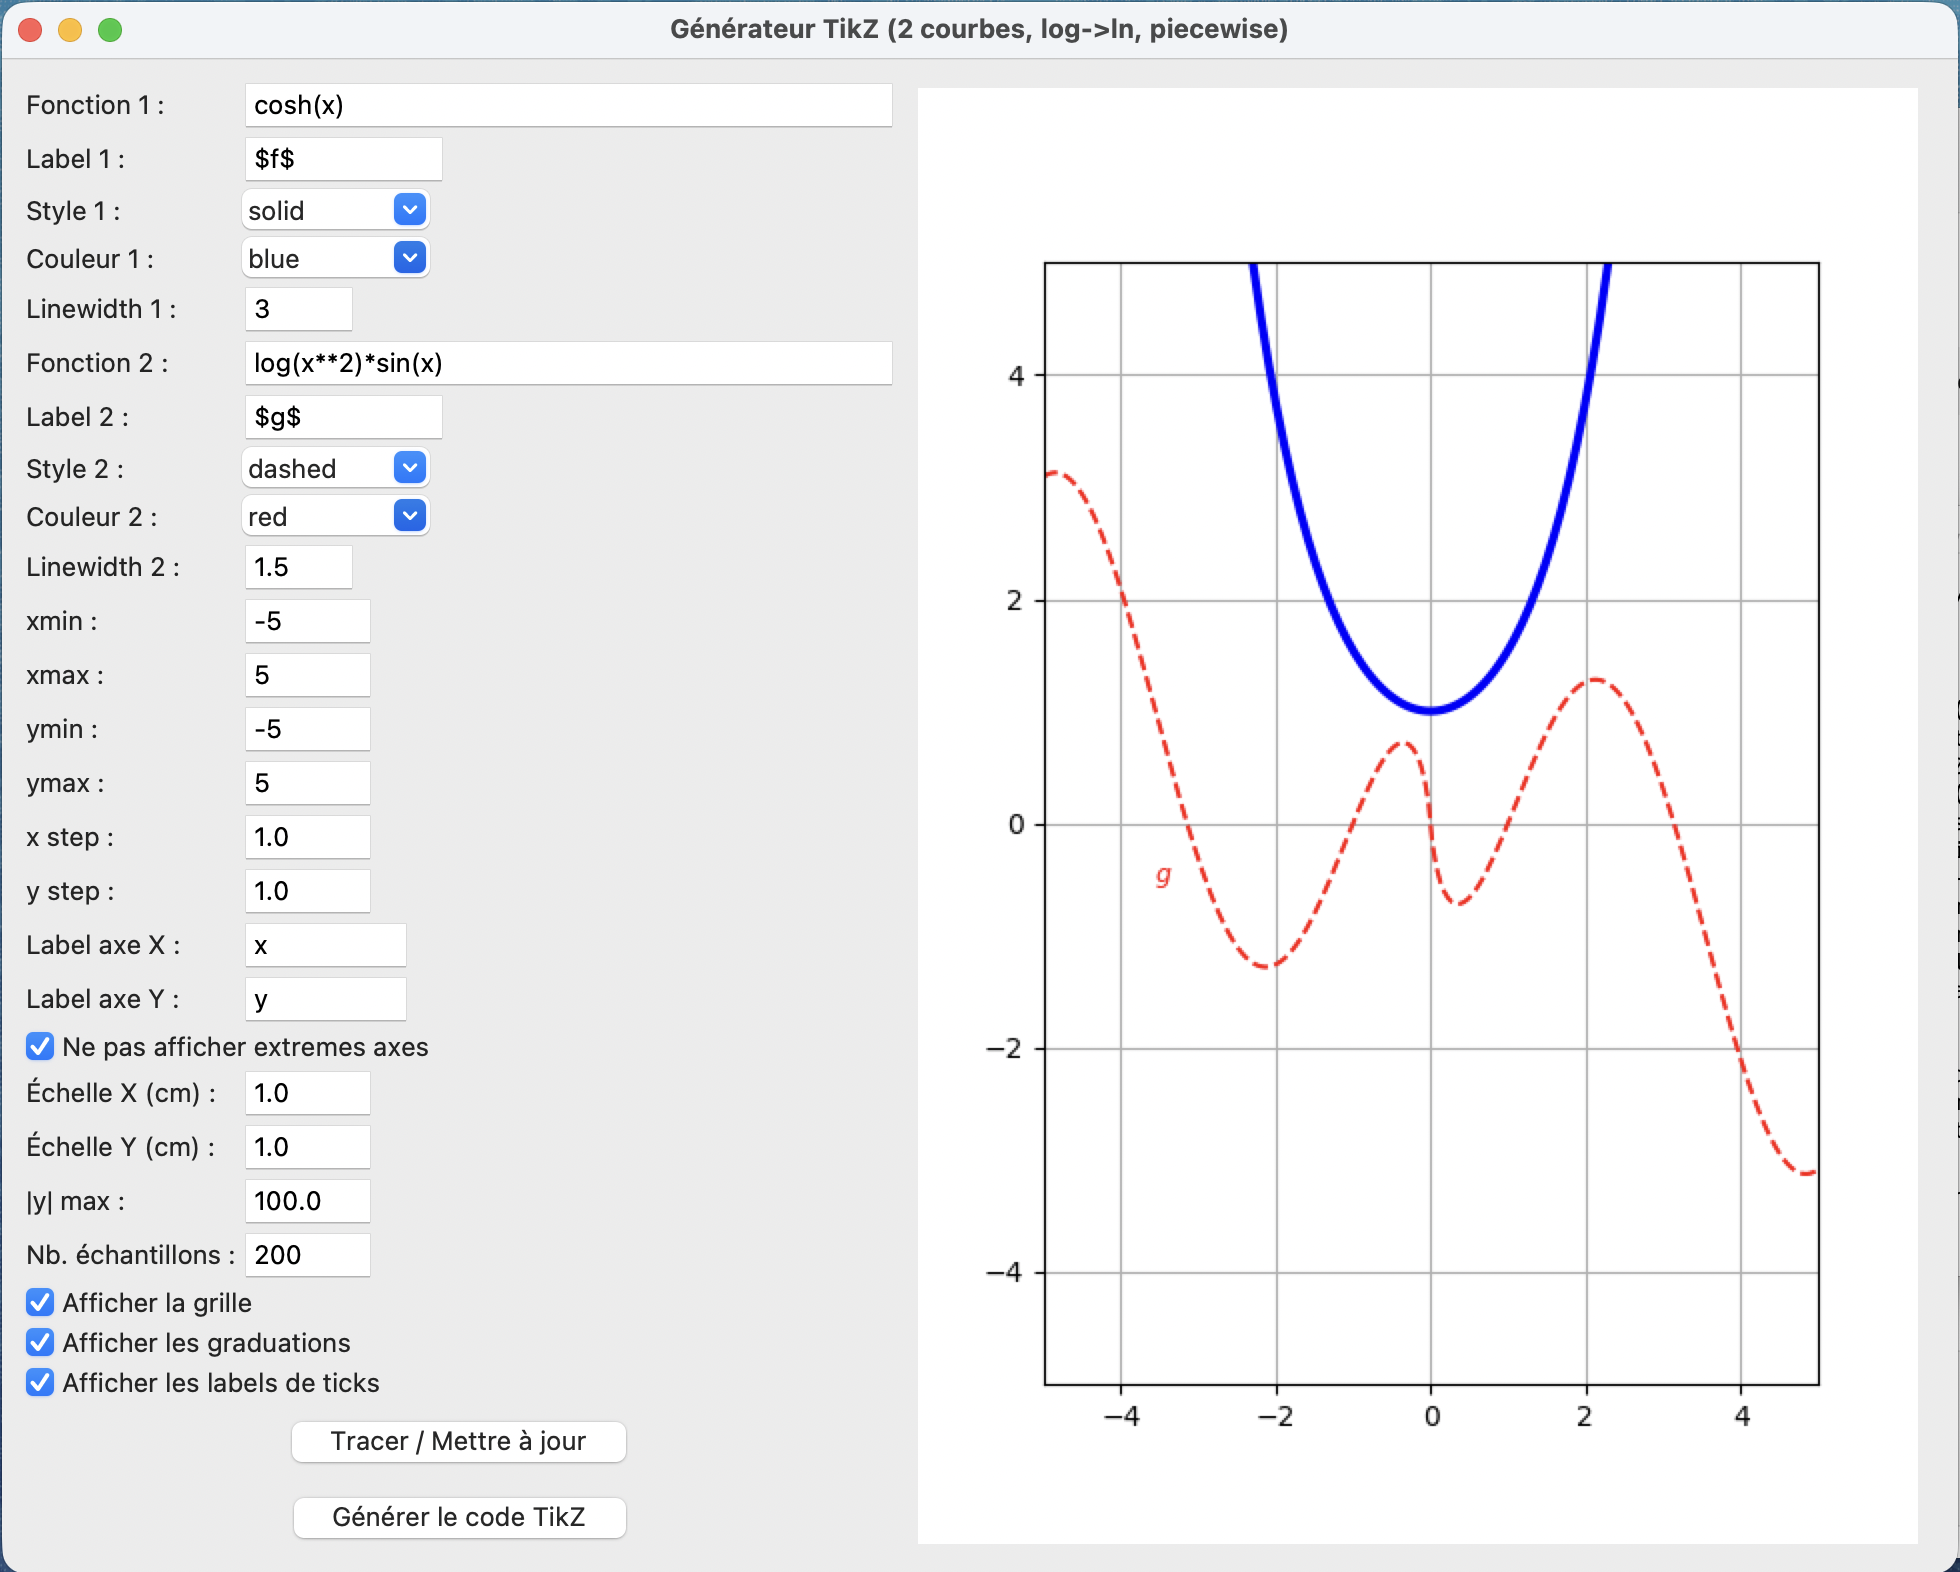
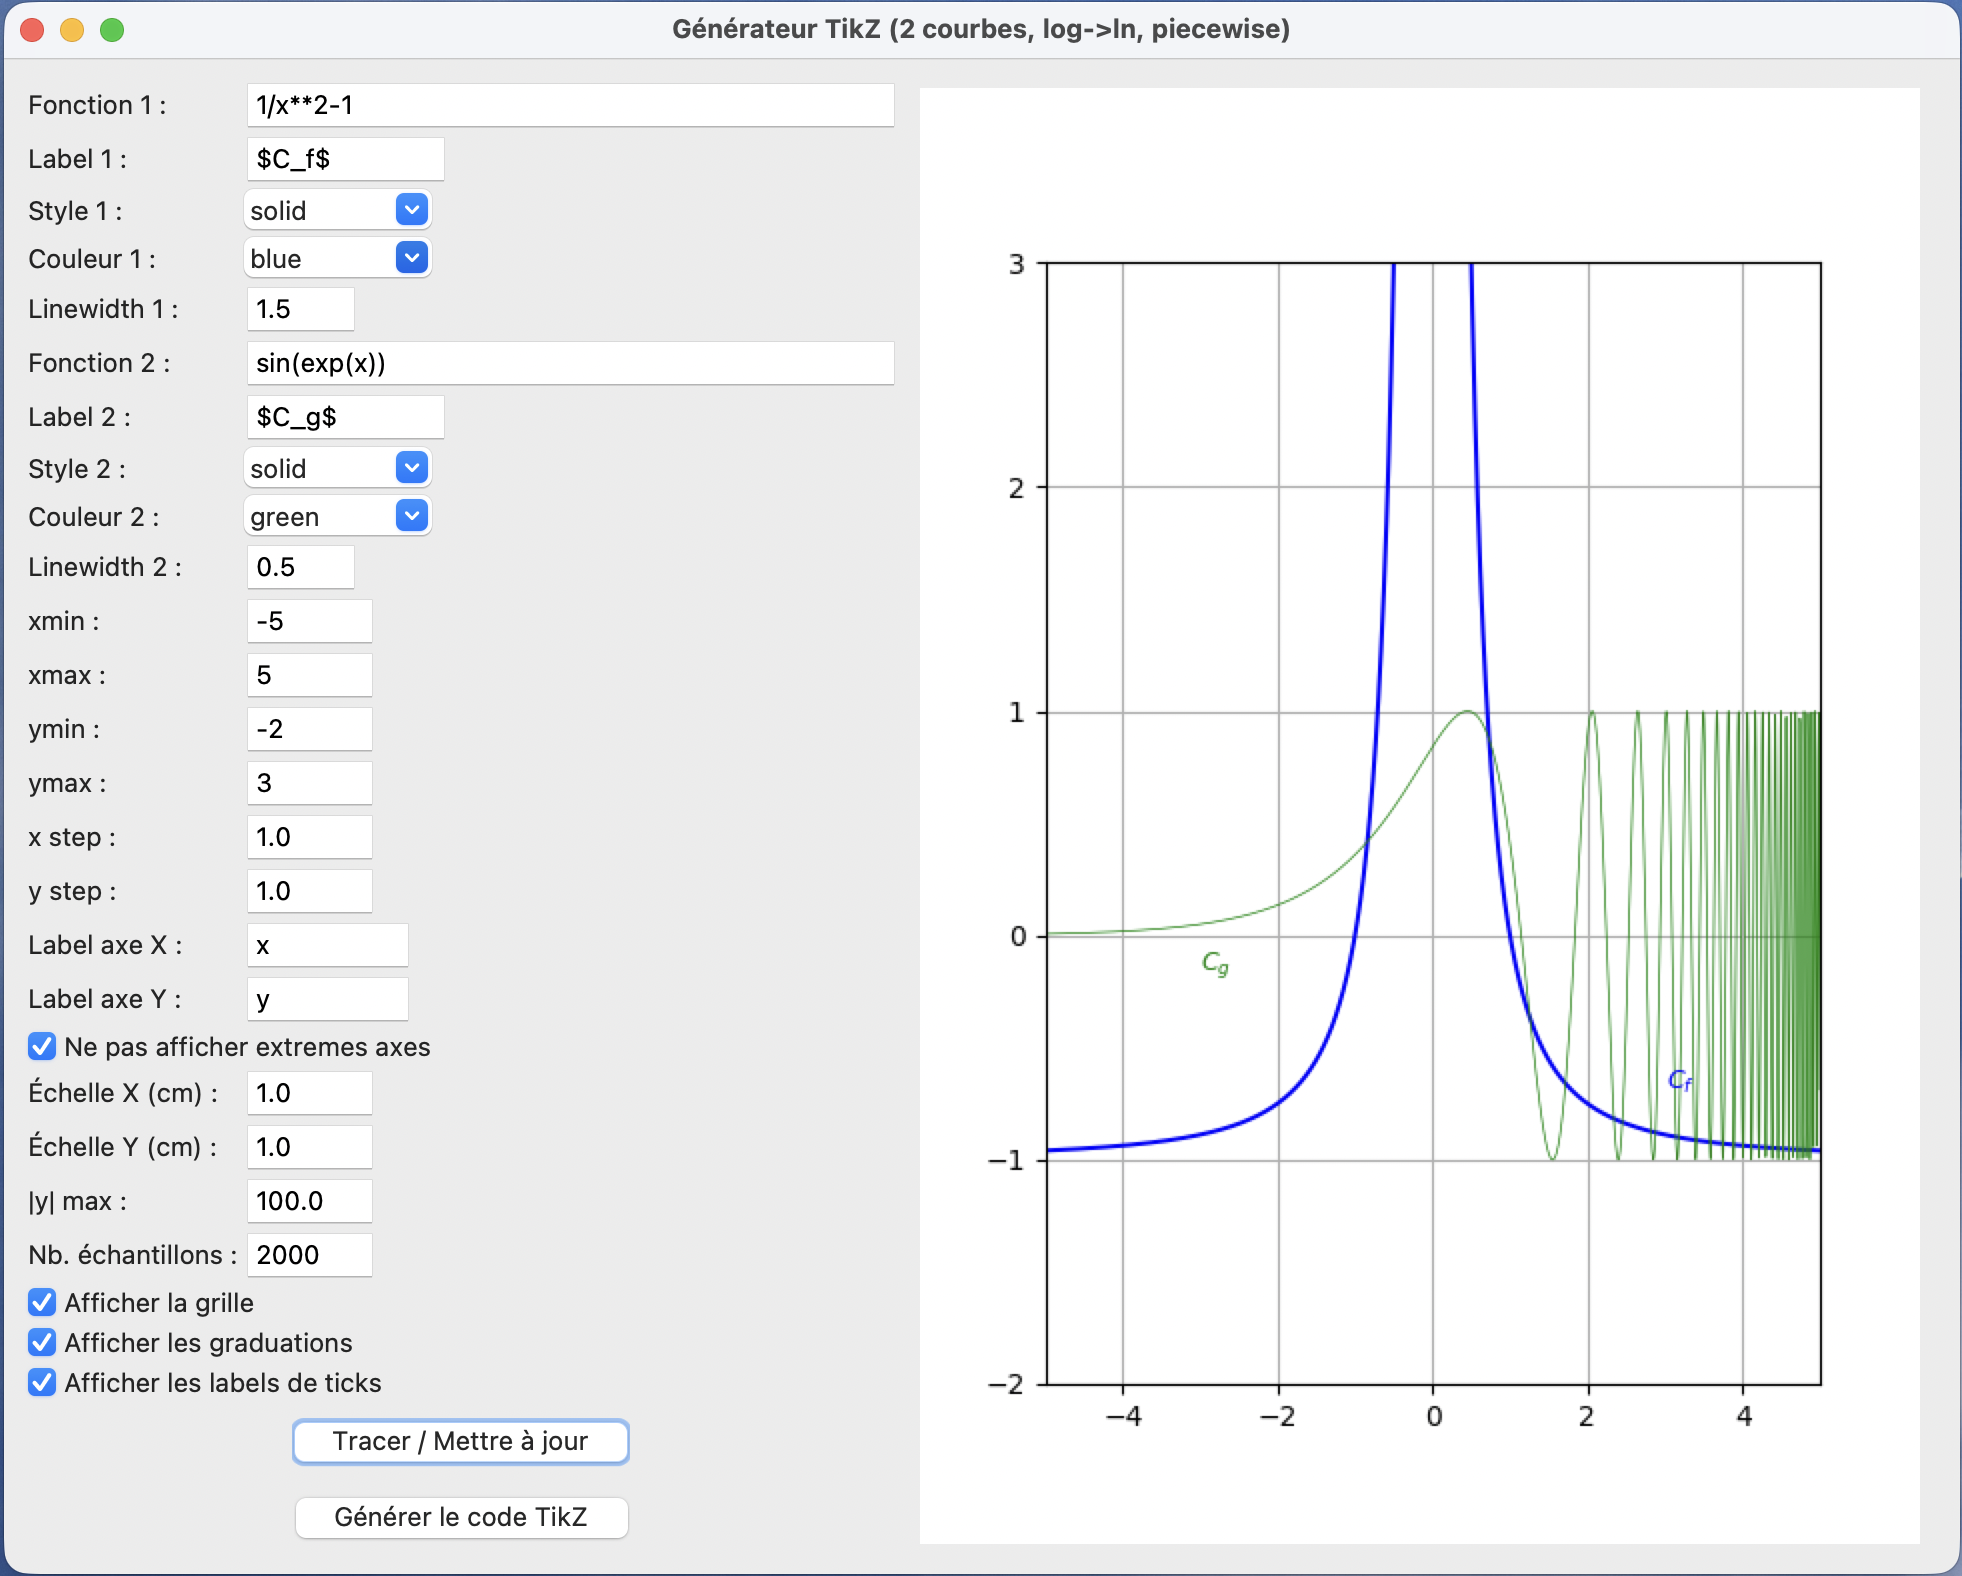
Modification de l'exemple

diff --git a/test.tex b/test.tex
@@ -1,44 +1,33 @@
-% XeLaTeX can use any Mac OS X font. See the setromanfont command below.
-% Input to XeLaTeX is full Unicode, so Unicode characters can be typed directly into the source.
-
-% The next lines tell TeXShop to typeset with xelatex, and to open and save the source with Unicode encoding.
-
-%!TEX TS-program = xelatex
-%!TEX encoding = UTF-8 Unicode
-
 \documentclass{article}
 \usepackage[utf8]{inputenc}    % si besoin
-
 \usepackage{amsmath,amssymb}   % si vous utilisez des formules avancées
-
 \usepackage{tikz}       % TikZ "de base"
 \usepackage{pgfplots}   % Pour les tracés pgfplots
 \pgfplotsset{compat=1.18} % ou version plus récente, p. ex. 1.18
-
 \begin{document}
 
-
-
+%%%%%%%%%%%%%%%%%%%%%%%%%%%%%%%%%%%%%%%
 \begin{tikzpicture}
   \begin{axis}[%
     xmin=-5.0,
     xmax=5.0,
-    ymin=-5.0,
-    ymax=5.0,
+    ymin=-2.0,
+    ymax=3.0,
     axis lines=middle,
     trig format=rad,
     grid=major,
     xtick={ -4.0,-3.0,-2.0,-1.0,0.0,1.0,2.0,3.0,4.0 },
-    ytick={ -4.0,-3.0,-2.0,-1.0,0.0,1.0,2.0,3.0,4.0 },
+    ytick={ -1.0,0.0,1.0,2.0 },
     xlabel=$x$,
     ylabel=$y$,
     scale only axis,
     x=1.0cm,
     y=1.0cm
   ]
-    \addplot[samples=200, unbounded coords=jump, line width=3.0pt, color=blue, solid, restrict y to domain=-100.0:100.0, domain=-5.0:5.0]{cosh(x)};
-    \addplot[samples=200, unbounded coords=jump, line width=1.5pt, color=red, dash pattern=on 5pt off 5pt, restrict y to domain=-100.0:100.0, domain=-5.0:5.0]{ln(x^2)*sin(x)};
-    \draw[color=red] (axis cs:-3.5677419354838715,-0.5237619523333805) node[anchor=east]{\color{red}$g$};
+    \addplot[samples=2000, unbounded coords=jump, line width=1.5pt, color=blue, solid, restrict y to domain=-100.0:100.0, domain=-5.0:5.0]{-1 + x^(-2)};
+    \addplot[samples=2000, unbounded coords=jump, line width=0.5pt, color=green, solid, restrict y to domain=-100.0:100.0, domain=-5.0:5.0]{sin(exp(x))};
   \end{axis}
 \end{tikzpicture}
+%%%%%%%%%%%%%%%%%%%%%%%%%%%%%%%%%%%%%%%
+
 \end{document}  
